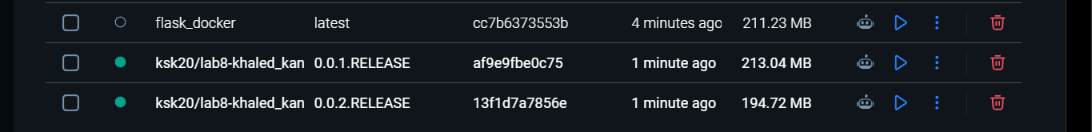
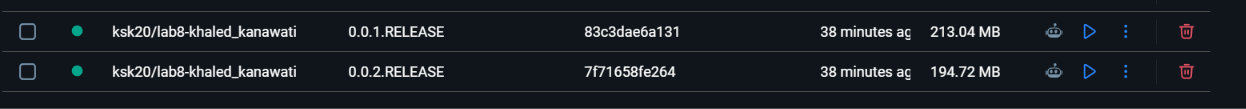
Did minor changes

diff --git a/README.md b/README.md
@@ -7,7 +7,6 @@ Khaled Kanawati
 - `hello_world/`: Flask Hello World example for Activity 1
 - `lab5_api/`: Lab 5 user-management API (port 5000)
 - `get_users_api/`: `GET /get_users` (port 3000)
-- `postman/`: Lab 5 Postman collection
 - `evidence/`: screenshots from the Docker exercises
 - `Lab8_Report_Khaled_Kanawati.docx`: command explanations and screenshots
 
